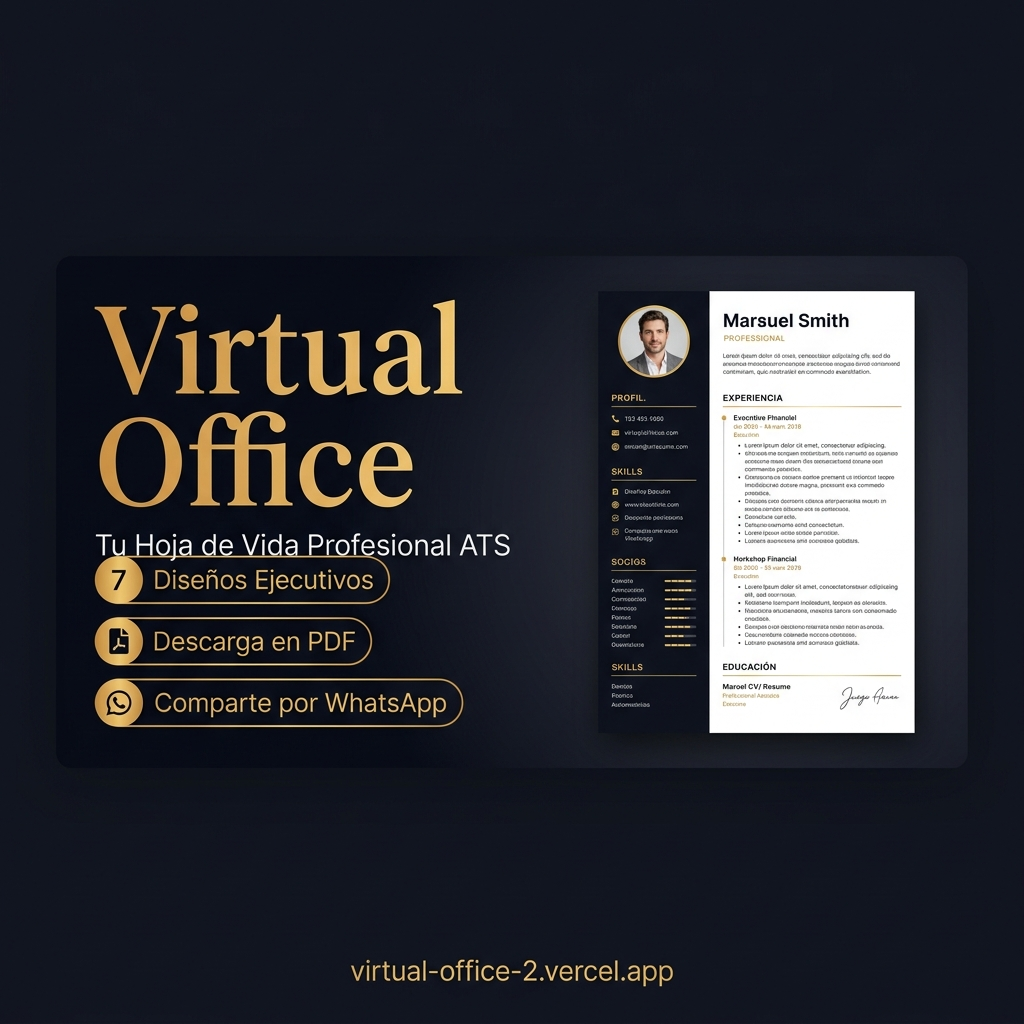
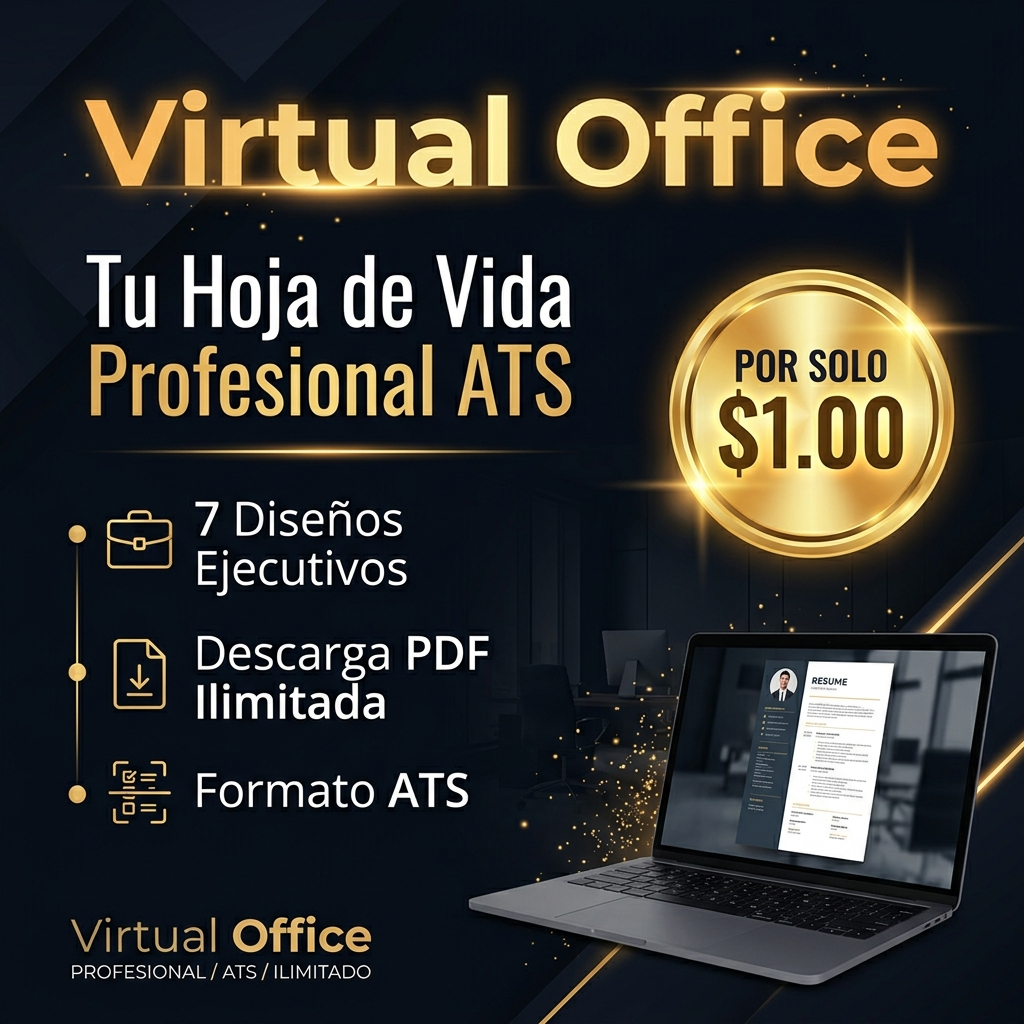
feat(monetization): update price to .00 on landing, seo tags and new og-image

diff --git a/src/views/LandingView.js b/src/views/LandingView.js
@@ -38,21 +38,21 @@ export const LandingView = () => `
 
     <div id="landing-badge" style="display:inline-flex; align-items:center; gap:0.4rem; background:rgba(197,160,89,0.08); border:1px solid rgba(197,160,89,0.25); padding:0.35rem 0.9rem; border-radius:20px; margin-bottom:clamp(1rem,4vh,1.8rem);">
       <span style="width:6px; height:6px; background:#4ade80; border-radius:50%; display:inline-block; animation:pulse 2s infinite; flex-shrink:0;"></span>
-      <span style="color:var(--primary); letter-spacing:1px; font-weight:600; white-space:nowrap;">100% GRATUITO · ACCESO INMEDIATO</span>
+      <span style="color:var(--primary); letter-spacing:1px; font-weight:600; white-space:nowrap;">OFERTA DE LANZAMIENTO · SOLO $1.00</span>
     </div>
 
     <h1 id="landing-headline" style="font-weight:700; line-height:1.1; margin:0 0 clamp(0.8rem,3vh,1.2rem); max-width:min(700px,95vw);">
-      <span style="color:#ffffff;">Crea tu Hoja de Vida</span><br>
-      <span style="background:linear-gradient(90deg,#c5a059,#f0d080,#c5a059); -webkit-background-clip:text; -webkit-text-fill-color:transparent; background-clip:text;">al Instante</span>
+      <span style="color:#ffffff;">Tu Hoja de Vida Profesional</span><br>
+      <span style="background:linear-gradient(90deg,#c5a059,#f0d080,#c5a059); -webkit-background-clip:text; -webkit-text-fill-color:transparent; background-clip:text;">por solo $1.00</span>
     </h1>
 
     <p id="landing-sub" style="color:#a0a0b0; line-height:1.6; margin:0 0 clamp(1.5rem,5vh,2.8rem); text-align:center;">
-      Diseña un CV profesional con formato ATS en minutos, desde tu celular. Descárgalo en PDF y compártelo por WhatsApp.
+      Diseña un CV profesional con formato ATS en minutos. Descárgalo en PDF y compártelo por WhatsApp. Pago único, acceso de por vida.
     </p>
 
     <div id="landing-cta-group" style="display:flex; flex-direction:column; gap:0.75rem;">
       <button id="landing-register-btn" class="btn-primary" style="width:100%; font-weight:700; letter-spacing:1px; border-radius:10px;">
-        ✨ CREAR MI CV GRATIS
+        ✨ EMPEZAR MI CV AHORA
       </button>
       <button id="landing-login-btn-2" style="width:100%; background:transparent; border:1px solid rgba(255,255,255,0.12); color:#a0a0b0; border-radius:10px; cursor:pointer; font-family:'Inter',sans-serif;">
         Ya tengo cuenta — Iniciar sesión

diff --git a/index.html b/index.html
@@ -6,16 +6,16 @@
     <title>Virtual Office — Tu Hoja de Vida Profesional ATS</title>
 
     <!-- ═══ SEO ═══════════════════════════════════════════════════════════ -->
-    <meta name="description" content="Crea tu hoja de vida profesional ATS en minutos. 7 diseños ejecutivos, descarga en PDF y comparte por WhatsApp. Gratis." />
-    <meta name="keywords" content="hoja de vida, curriculum vitae, ATS, profesional, Ecuador, CV online" />
+    <meta name="description" content="Crea tu hoja de vida profesional ATS en minutos. 7 diseños ejecutivos, descarga en PDF por solo $1. ¡Oferta de lanzamiento!" />
+    <meta name="keywords" content="hoja de vida, curriculum vitae, ATS, profesional, Ecuador, CV online, $1" />
     <meta name="author" content="Virtual Office" />
     <meta name="robots" content="index, follow" />
 
     <!-- ═══ OPEN GRAPH (Facebook, WhatsApp, LinkedIn) ══════════════════════ -->
     <meta property="og:type" content="website" />
     <meta property="og:url" content="https://virtual-office-2.vercel.app/" />
-    <meta property="og:title" content="Virtual Office — Tu Hoja de Vida Profesional ATS" />
-    <meta property="og:description" content="✅ Crea tu CV profesional ATS en minutos. 7 diseños ejecutivos. Descarga PDF. Comparte por WhatsApp. ¡Acceso gratuito!" />
+    <meta property="og:title" content="Virtual Office — Tu CV Profesional por solo $1" />
+    <meta property="og:description" content="🚀 Crea tu CV profesional ATS en minutos. 7 diseños ejecutivos. Descarga PDF ilimitada por solo $1.00. ¡Acceso inmediato!" />
     <meta property="og:image" content="https://virtual-office-2.vercel.app/og-image.png" />
     <meta property="og:image:width" content="1200" />
     <meta property="og:image:height" content="630" />

diff --git a/src/services/fbBrowserDetector.js b/src/services/fbBrowserDetector.js
@@ -40,19 +40,15 @@ function showOverlay(rawURL, hostPath, isAndroid, isIOS) {
       icon: chromeSVG(),
       name: 'Chrome',
       color: '#4285F4',
+      // Formato de intent más robusto para Chrome
       action: `intent://${hostPath}#Intent;scheme=https;package=com.android.chrome;end;`
     });
     browsers.push({
       icon: firefoxSVG(),
       name: 'Firefox',
       color: '#FF6611',
-      action: `intent://${hostPath}#Intent;scheme=https;package=org.mozilla.firefox;end;`
-    });
-    browsers.push({
-      icon: edgeSVG(),
-      name: 'Edge',
-      color: '#0078D4',
-      action: `intent://${hostPath}#Intent;scheme=https;package=com.microsoft.emmx;end;`
+      // Formato alternativo para Firefox Android
+      action: `intent://${hostPath}#Intent;scheme=https;package=org.mozilla.firefox;S.browser_fallback_url=${encodeURIComponent(rawURL)};end;`
     });
   } else if (isIOS) {
     browsers.push({
